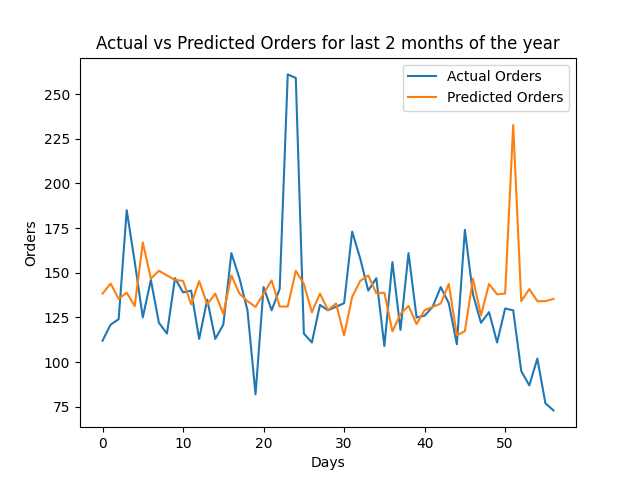
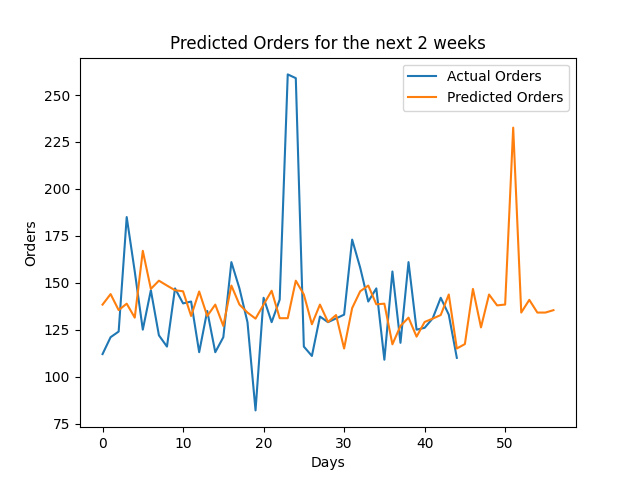
fixes

diff --git a/dashboard.py b/dashboard.py
@@ -72,7 +72,7 @@ if st.button("Submit", type="primary"):
         y_test = y[300:]
 
         st.markdown("## Model Predictions")
-        st.markdown("### This is how our model performed on the past 2 months of your data")
+        st.markdown("### This is how our model performed on the past 2 months of your data and its predictions for the next two weeks")
         st.image("ml_ouput.png")
 
         st.markdown(f"The model is accurate to +/- 24 orders which represents {round((24/np.mean(y_test))*100, 2)}% of your average daily orders")
